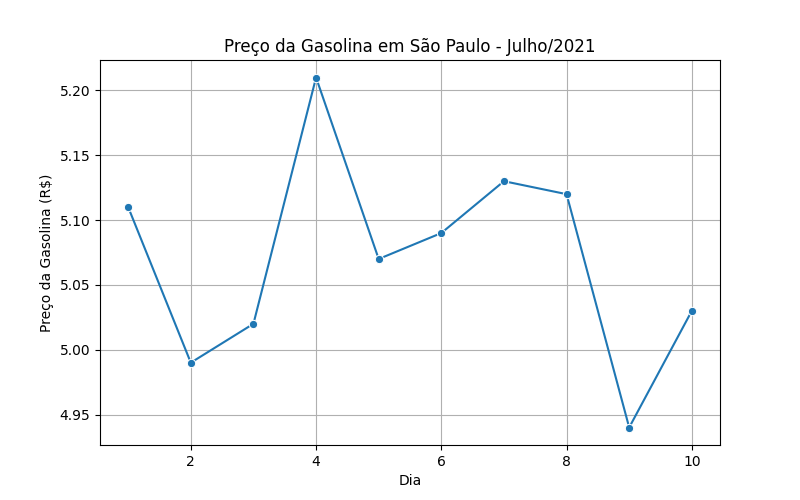
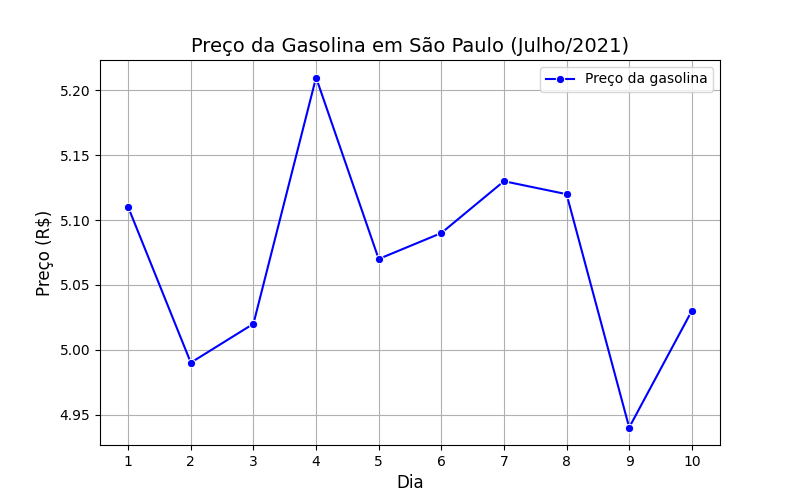
Atualização do gráfico da gasolina na branch develop

diff --git a/gasolina.py b/gasolina.py
@@ -1,15 +1,16 @@
+
 import pandas as pd
 import matplotlib.pyplot as plt
 import seaborn as sns
 
-df = pd.read_csv('gasolina.csv')
+df = pd.read_csv("gasolina.csv")
 
-plt.figure(figsize=(8, 5))
-sns.lineplot(x=df['dia'], y=df['venda'], marker='o', linestyle='-')
-plt.xlabel('Dia')
-plt.ylabel('Preço da Gasolina (R$)')
-plt.title('Preço da Gasolina em São Paulo - Julho/2021')
-plt.grid(True)
-
-plt.savefig('gasolina.png')
-plt.show()
+plt.figure(figsize=(8,5))
+sns.lineplot(x=df["dia"], y=df["venda"], marker="o", linestyle="-", color="b", label="Preço da gasolina")
+plt.title("Preço da Gasolina em São Paulo (Julho/2021)", fontsize=14)
+plt.xlabel("Dia", fontsize=12)
+plt.ylabel("Preço (R$)", fontsize=12)
+plt.xticks(df["dia"])
+plt.legend()
+plt.grid()
+plt.savefig("gasolina.png")
